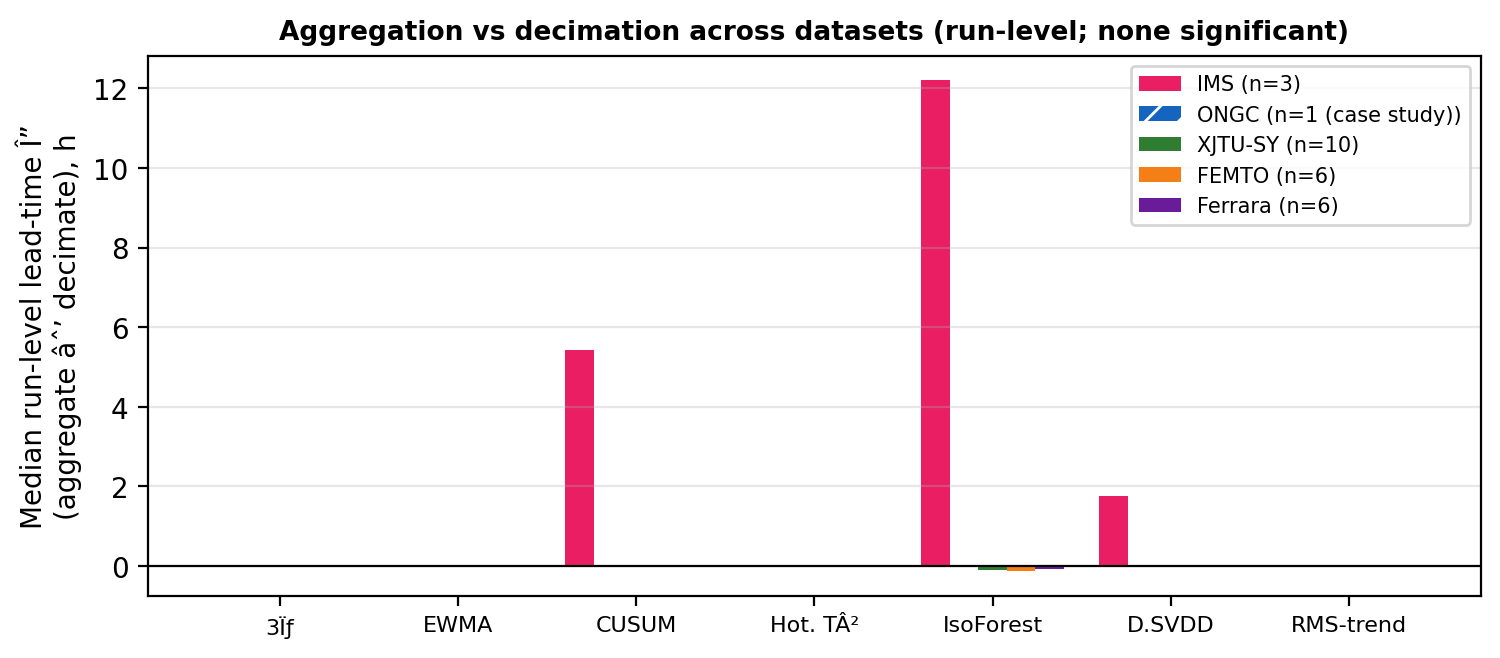
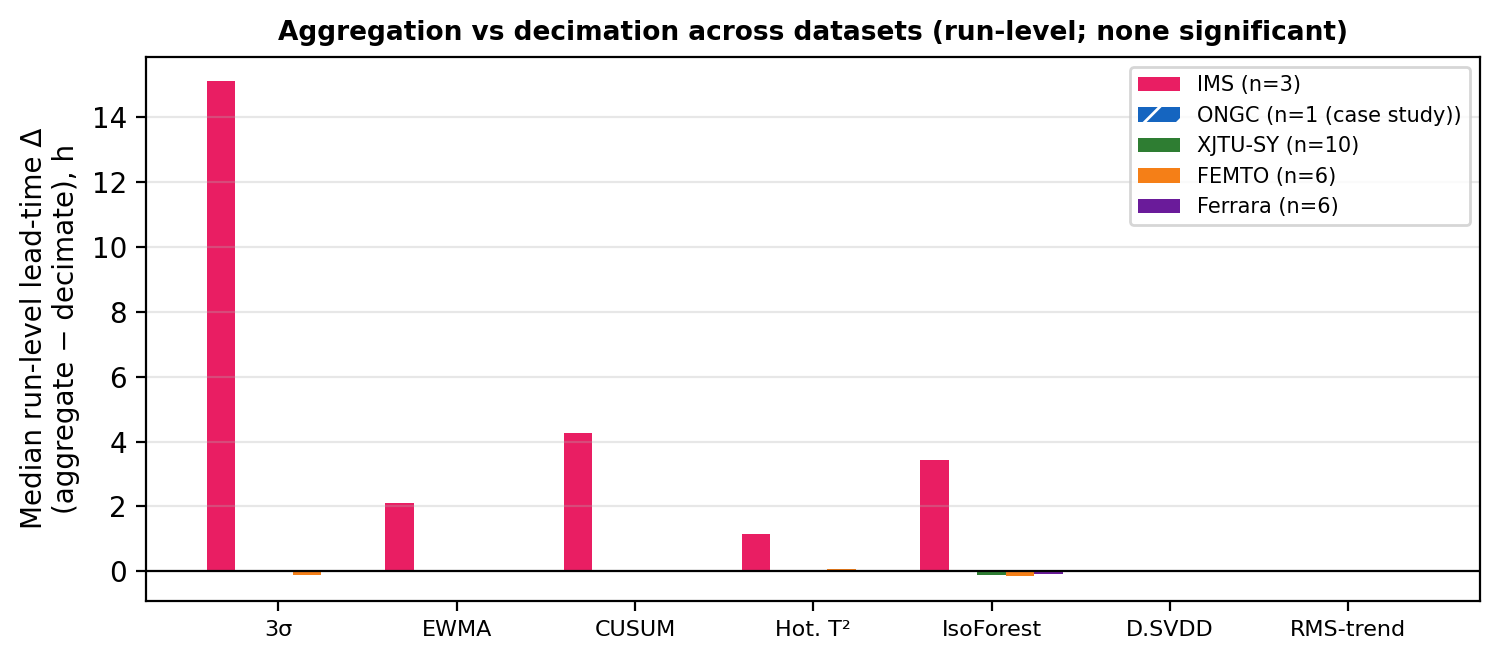
fix(figures): regenerate Figures 2 and 3 from invariant IMS data (D-2)
make_figures.py read the legacy benchmark_IMS_long.csv and
ims_runlevel_test.csv; it now reads the _invariant files. The generator
was gitignored under paper/* and is force-added so the two published
figures are reproducible from the repo.

diff --git a/paper/make_figures.py b/paper/make_figures.py
@@ -1,0 +1,247 @@
+# paper/make_figures.py
+"""
+Generate the figures for the ICSC paper into paper/figs/, plus copy the trade-off and
+calibration figures already produced by the analysis CLIs. Run from repo root:
+
+    python paper/make_figures.py
+"""
+import os
+import shutil
+import numpy as np
+import pandas as pd
+import matplotlib
+matplotlib.use("Agg")
+import matplotlib.pyplot as plt
+
+ROOT = os.path.dirname(os.path.dirname(os.path.abspath(__file__)))
+FIGS = os.path.join(ROOT, "paper", "figs")
+TAB = os.path.join(ROOT, "results", "tables")
+RFIG = os.path.join(ROOT, "results", "figures")
+os.makedirs(FIGS, exist_ok=True)
+
+METHOD_COLORS = {
+    "3σ Rule (σ=3.0)": "#2196F3", "EWMA (λ=0.2, k=3.0)": "#4CAF50",
+    "Hotelling T²": "#FF9800", "Isolation Forest": "#E91E63",
+    "RMS-Trend (kσ)": "#9C27B0",
+}
+
+
+def fig_rms_degradation():
+    """Fig 1: mean-RMS health indicator on IMS 2nd_test with onset + failure markers."""
+    import sys
+    sys.path.insert(0, ROOT)
+    from src import load_pipeline
+    from src.onset import health_indicator, onset_for_run
+    import pandas as pd
+
+    pipe = load_pipeline("2nd_test", dataset="IMS")
+    df = pipe["df_full"]
+    hi = health_indicator(df, kind="rms_mean")
+    n = len(df)
+    train_end = df.index[min(int(n * pipe["train_fraction"]), n - 1)]
+    t_fail = pd.Timestamp(pipe["failure_time"])
+    onset = onset_for_run(df, train_end=train_end, t_fail=t_fail)
+
+    fig, ax = plt.subplots(figsize=(7, 3.1))
+    ax.plot(hi.index, hi.values, color="#1565C0", linewidth=1.0, label="mean RMS")
+    ax.axvspan(hi.index[0], train_end, alpha=0.08, color="green")
+    ax.axvline(train_end, color="green", linestyle=":", linewidth=1.2, label="train boundary")
+    if onset is not None:
+        ax.axvline(onset, color="#FB8C00", linestyle="--", linewidth=1.6, label="degradation onset")
+    ax.axvline(t_fail, color="#B71C1C", linestyle="-", linewidth=1.8, label="failure")
+    ax.set_xlabel("Time")
+    ax.set_ylabel("Health indicator $h(t)$ (mean RMS)")
+    ax.set_title("IMS Bearing 2nd_test — degradation trajectory", fontsize=10, fontweight="bold")
+    ax.legend(fontsize=7, loc="upper left")
+    ax.grid(alpha=0.3)
+    fig.autofmt_xdate()
+    plt.tight_layout()
+    out = os.path.join(FIGS, "fig_rms_degradation.png")
+    fig.savefig(out, dpi=200, bbox_inches="tight")
+    plt.close(fig)
+    print("wrote", out)
+
+
+def fig_leadtime_vs_sampling():
+    """Fig 2: lead time vs effective SCADA logging interval, aggregate vs decimate (IMS)."""
+    # D-2: IMS is re-baselined onto the 49-dim invariant schema (legacy file kept for the letter).
+    long = pd.read_csv(os.path.join(TAB, "benchmark_IMS_long_invariant.csv"))
+    # mean across runs per (mode, factor, method)
+    g = (long.groupby(["mode", "factor", "effective_interval_min", "method"])
+         ["lead_time_hours"].mean().reset_index())
+    modes = ["aggregate", "decimate"]
+    fig, axes = plt.subplots(1, 2, figsize=(7.2, 3.2), sharey=True)
+    for ax, mode in zip(axes, modes):
+        sub = g[g["mode"] == mode]
+        for m, ms in sub.groupby("method"):
+            ms = ms.sort_values("effective_interval_min")
+            ax.plot(ms["effective_interval_min"], ms["lead_time_hours"],
+                    "o-", markersize=4, linewidth=1.5,
+                    color=METHOD_COLORS.get(m), label=m)
+        ax.set_xscale("log")
+        ax.set_xlabel("Effective logging interval (min)")
+        ax.set_title(mode.capitalize(), fontsize=10, fontweight="bold")
+        ax.grid(alpha=0.3, which="both")
+    axes[0].set_ylabel("Detection lead time (h)")
+    axes[1].legend(fontsize=6.5, loc="best")
+    plt.suptitle("Lead time vs SCADA-rate sampling (IMS, controlled sweep)",
+                 fontsize=10.5, fontweight="bold", y=1.02)
+    plt.tight_layout()
+    out = os.path.join(FIGS, "fig_leadtime_vs_sampling.png")
+    fig.savefig(out, dpi=200, bbox_inches="tight")
+    plt.close(fig)
+    print("wrote", out)
+
+
+def fig_crossdataset():
+    """Fig 5: median run-level lead-time difference (aggregate - decimate) per
+    dataset x method, annotated with the unit of inference per dataset. No
+    significance stars: after honoring run structure and Holm correction nothing
+    is significant (see paper Sec. Multiple-comparison correction); the bars are
+    trend magnitudes. IMS/XJTU come from the run-level tables; ONGC is the n=1
+    descriptive case study from its Wilcoxon CSV (median diff only)."""
+    runlevel = {}
+    for ds, fname in [("IMS", "ims_runlevel_test_invariant.csv"),  # D-2
+                      ("XJTU-SY", "xjtu_sy_runlevel_test.csv"),
+                      ("FEMTO", "femto_runlevel_test.csv"),
+                      ("Ferrara", "ferrara_runlevel_test.csv")]:
+        p = os.path.join(TAB, fname)
+        if os.path.exists(p):
+            runlevel[ds] = pd.read_csv(p)
+    # ONGC: single-asset case study — take the descriptive median diff (minutes→hours)
+    ongc = None
+    p_ongc = os.path.join(TAB, "benchmark_ONGC_paired_test.csv")
+    if os.path.exists(p_ongc):
+        ongc = pd.read_csv(p_ongc)
+
+    methods = ["3σ Rule (σ=3.0)", "EWMA (λ=0.2, k=3.0)", "CUSUM (k=0.5, h=5.0)",
+               "Hotelling T²", "Isolation Forest", "Deep SVDD", "RMS-Trend (kσ)"]
+    short = {"3σ Rule (σ=3.0)": "3σ", "EWMA (λ=0.2, k=3.0)": "EWMA",
+             "CUSUM (k=0.5, h=5.0)": "CUSUM", "Hotelling T²": "Hot. T²",
+             "Isolation Forest": "IsoForest", "Deep SVDD": "D.SVDD",
+             "RMS-Trend (kσ)": "RMS-trend"}
+    datasets = ["IMS", "ONGC", "XJTU-SY", "FEMTO", "Ferrara"]
+    n_label = {"IMS": "n=3", "ONGC": "n=1 (case study)", "XJTU-SY": "n=10",
+               "FEMTO": "n=6", "Ferrara": "n=6"}
+    colors = {"IMS": "#E91E63", "ONGC": "#1565C0", "XJTU-SY": "#2E7D32",
+              "FEMTO": "#F57F17", "Ferrara": "#6A1B9A"}
+
+    def median_diff(ds, m):
+        if ds == "ONGC":
+            if ongc is None:
+                return 0.0
+            r = ongc[ongc.method == m]
+            # ONGC paired CSV is in minutes; show on the hour axis (≈0 by design)
+            return float(r["median_diff_agg_minus_dec"].iloc[0]) / 60.0 if len(r) else 0.0
+        tbl = runlevel.get(ds)
+        if tbl is None:
+            return 0.0
+        r = tbl[tbl.method == m]
+        return float(r["median_diff"].iloc[0]) if len(r) else 0.0
+
+    x = np.arange(len(methods))
+    w = 0.16
+    fig, ax = plt.subplots(figsize=(7.6, 3.4))
+    n_ds = len(datasets)
+    for i, ds in enumerate(datasets):
+        vals = [median_diff(ds, m) for m in methods]
+        # ONGC is the n=1 descriptive case study — hatch its bars so they are
+        # visually distinct from the inferential datasets (IMS/XJTU/FEMTO).
+        hatch = "//" if ds == "ONGC" else None
+        ax.bar(x + (i - (n_ds - 1) / 2) * w, vals, w,
+               label=f"{ds} ({n_label[ds]})", color=colors[ds],
+               hatch=hatch, edgecolor="white" if hatch else "none", linewidth=0.0)
+    ax.axhline(0, color="black", linewidth=0.8)
+    ax.set_xticks(x)
+    ax.set_xticklabels([short[m] for m in methods], fontsize=8)
+    ax.set_ylabel("Median run-level lead-time Δ\n(aggregate − decimate), h")
+    ax.set_title("Aggregation vs decimation across datasets (run-level; none significant)",
+                 fontsize=9.5, fontweight="bold")
+    ax.legend(fontsize=7.5)
+    ax.grid(alpha=0.3, axis="y")
+    plt.tight_layout()
+    out = os.path.join(FIGS, "fig_crossdataset.png")
+    fig.savefig(out, dpi=200, bbox_inches="tight")
+    plt.close(fig)
+    print("wrote", out)
+
+
+def fig_training_sweep():
+    """Fig 8: valid-alarm fraction vs training fraction on FEMTO (n=6), one line per
+    detector colored by family, with the SPC-chart baseline drawn as a dashed
+    reference. There is no crossover: the deep models never reach the SPC baseline."""
+    path = os.path.join(TAB, "femto_training_sweep.csv")
+    if not os.path.exists(path):
+        print("skip fig_training_sweep — run `python -m src.training_sweep` first")
+        return
+    df = pd.read_csv(path)
+
+    # Detector families → colors. SPC/magnitude charts one hue, IF/SVDD another,
+    # deep reconstruction a third (matches the paper's family framing).
+    families = {
+        "three_sigma": ("SPC", "#1565C0"), "ewma": ("SPC", "#1E88E5"),
+        "cusum": ("SPC", "#42A5F5"), "hotelling_t2": ("SPC", "#90CAF9"),
+        "isolation_forest": ("tree/one-class", "#2E7D32"),
+        "deep_svdd": ("tree/one-class", "#66BB6A"),
+        "lstm_ae": ("deep recon.", "#C62828"), "tcn": ("deep recon.", "#EF5350"),
+        "transformer_ad": ("deep recon.", "#FF8A80"),
+    }
+    labels = {"three_sigma": "3σ", "ewma": "EWMA", "cusum": "CUSUM",
+              "hotelling_t2": "Hot. T²", "isolation_forest": "IsoForest",
+              "deep_svdd": "Deep SVDD", "lstm_ae": "LSTM-AE", "tcn": "TCN-AE",
+              "transformer_ad": "Transformer-AD"}
+
+    fig, ax = plt.subplots(figsize=(7.0, 3.6))
+    for sn, (fam, color) in families.items():
+        sub = df[df.short_name == sn].sort_values("train_fraction")
+        if sub.empty:
+            continue
+        ls = {"SPC": "-", "tree/one-class": "--", "deep recon.": ":"}[fam]
+        ax.plot(sub["train_fraction"], sub["valid_frac"], marker="o", markersize=4,
+                linewidth=1.6, linestyle=ls, color=color, label=labels[sn])
+
+    # SPC-chart baseline = mean valid fraction over the four SPC charts, drawn as a
+    # horizontal dashed reference the deep models are compared against.
+    spc = df[df.short_name.isin(["three_sigma", "ewma", "cusum", "hotelling_t2"])]
+    if not spc.empty:
+        base = float(spc["valid_frac"].mean())
+        ax.axhline(base, color="#1565C0", linestyle="--", linewidth=1.0, alpha=0.6)
+        ax.text(0.205, base + 0.02, f"SPC baseline ≈ {base:.2f}", fontsize=7,
+                color="#1565C0")
+    ax.text(0.50, 0.06, "no crossover: deep models never reach the SPC baseline",
+            fontsize=7.5, style="italic", ha="center", color="#555555")
+
+    ax.set_xlabel("Training fraction $T$")
+    ax.set_ylabel("Valid-alarm fraction ($n{=}6$ bearings)")
+    ax.set_xlim(0.18, 0.62)
+    ax.set_ylim(-0.02, 1.0)
+    ax.set_xticks([0.2, 0.3, 0.4, 0.5, 0.6])
+    ax.set_title("Minimum training data for deep models to match SPC charts\n"
+                 "on FEMTO/PRONOSTIA (n=6 bearings)", fontsize=9.5, fontweight="bold")
+    ax.legend(fontsize=6.5, ncol=3, loc="upper right")
+    ax.grid(alpha=0.3)
+    plt.tight_layout()
+    out = os.path.join(FIGS, "fig_training_sweep.png")
+    fig.savefig(out, dpi=200, bbox_inches="tight")
+    plt.close(fig)
+    print("wrote", out)
+
+
+def copy_existing():
+    for src_name, dst_name in [
+        ("tradeoff_far_vlt_IMS.png", "fig_tradeoff.png"),
+        ("calibration_curve_IMS.png", "fig_calibration.png"),
+    ]:
+        s = os.path.join(RFIG, src_name)
+        if os.path.exists(s):
+            shutil.copy(s, os.path.join(FIGS, dst_name))
+            print("copied", dst_name)
+
+
+if __name__ == "__main__":
+    fig_rms_degradation()
+    fig_leadtime_vs_sampling()
+    fig_crossdataset()
+    fig_training_sweep()
+    copy_existing()
+    print("Figures in", FIGS)
